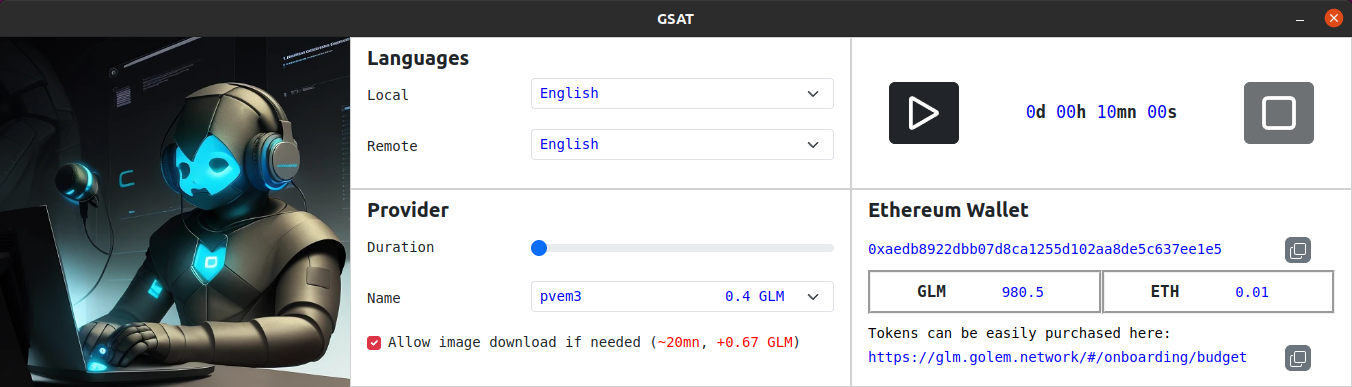
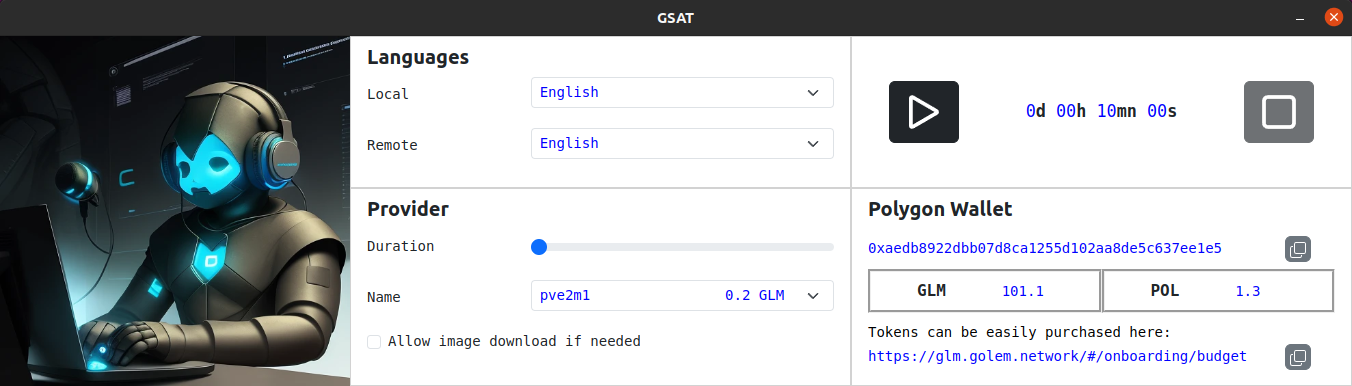
switch from MATIC to POL

diff --git a/GSAT/src/sst.jsx b/GSAT/src/sst.jsx
@@ -414,7 +414,7 @@ export const Main = () => {
 												</Col>
 												<Col column="true" xl={6} className="center borderg">
 													<Col column="true" xl={3}>
-														<Form.Label column="true" xl={3} className="flex"><b>{(network == 'polygon')?'MATIC':'ETH'}</b></Form.Label>
+														<Form.Label column="true" xl={3} className="flex"><b>{(network == 'polygon')?'POL':'ETH'}</b></Form.Label>
 													</Col>
 													<Col column="true" xl={3}>
 														<Form.Text className={mainTokenFlag?"red":"blue"}>{mainTokenBalance}</Form.Text>
